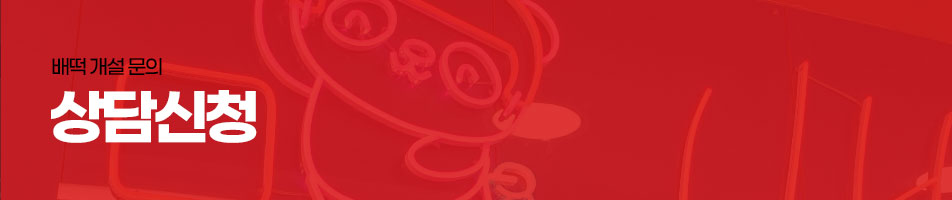
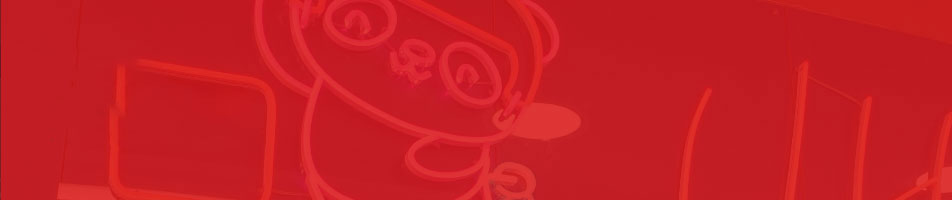
Add files via upload

Changed region(s): [[0.0305, 0.45, 0.2742, 0.72], [0.0305, 0.27, 0.1828, 0.39]]

diff --git a/index.html b/index.html
@@ -119,117 +119,113 @@
                     <ul class="tab_content">
                         <li class="on">
                             <!-- <h3 class="blind">떡볶이</h3> -->
-                            <div class="tab_slide1">
-                                <figure>
-                                    <img src="./images/menu_001.jpg" alt="">
-                                </figure>
-                                <figure>
-                                    <img src="./images/menu_002.jpg" alt="">
-                                </figure>
-                                <figure>
-                                    <img src="./images/menu_003.jpg" alt="">
-                                </figure>
-                                <figure>
-                                    <img src="./images/menu_004.jpg" alt="">
-                                </figure>
-                                <figure>
-                                    <img src="./images/menu_005.jpg" alt="">
-                                </figure>
-                                <figure>
-                                    <img src="./images/menu_006.jpg" alt="">
-                                </figure>
-                                <figure>
-                                    <img src="./images/menu_007.jpg" alt="">
-                                </figure>
-                                <figure>
-                                    <img src="./images/menu_008.jpg" alt="">
-                                </figure>
-                                <figure>
-                                    <img src="./images/menu_009.jpg" alt="">
-                                </figure>
+                            <div class="tab_slide">
+                                <div class="img_box">
+                                    <img src="./images/rice_menu_001.jpg" alt="">
+                                    <span>마라로제떡볶이</span>
+                                </div>
+                                <div class="img_box">
+                                    <img src="./images/rice_menu_002.jpg" alt="">
+                                    <span>마라떡볶이</span>
+                                </div>
+                                <div class="img_box">
+                                    <img src="./images/rice_menu_003.jpg" alt="">
+                                    <span>로제떡볶이</span>
+                                </div>
+                                <div class="img_box">
+                                    <img src="./images/rice_menu_004.jpg" alt="">
+                                    <span>분모자떡볶이</span>
+                                </div>
+                                <div class="img_box">
+                                    <img src="./images/rice_menu_005.jpg" alt="">
+                                    <span>소곱창떡볶이</span>
+                                </div>
+                                <div class="img_box">
+                                    <img src="./images/rice_menu_006.jpg" alt="">
+                                    <span>우삼겹떡볶이</span>
+                                </div>
+                                <div class="img_box">
+                                    <img src="./images/rice_menu_007.jpg" alt="">
+                                    <span>국물떡볶이</span>
+                                </div>
                             </div>
                         </li>
                         <li>
                             <!-- <h3 class="blind">세트메뉴</h3> -->
-                            <div class="tab_slide2">
+                            <div class="tab_slide">
                                 <figure>
-                                    <img src="./images/menu_003.jpg" alt="">
+                                    <img src="./images/set_menu_001.jpg" alt="">
+                                    <span>Lorem, ipsum.</span>
                                 </figure>
                                 <figure>
-                                    <img src="./images/menu_004.jpg" alt="">
+                                    <img src="./images/set_menu_002.jpg" alt="">
+                                    <span>Lorem, ipsum.</span>
                                 </figure>
                                 <figure>
-                                    <img src="./images/menu_005.jpg" alt="">
+                                    <img src="./images/set_menu_003.jpg" alt="">
+                                    <span>Lorem, ipsum.</span>
                                 </figure>
                                 <figure>
-                                    <img src="./images/menu_006.jpg" alt="">
+                                    <img src="./images/set_menu_004.jpg" alt="">
+                                    <span>Lorem, ipsum.</span>
                                 </figure>
                                 <figure>
-                                    <img src="./images/menu_007.jpg" alt="">
-                                </figure>
-                                <figure>
-                                    <img src="./images/menu_008.jpg" alt="">
-                                </figure>
-                                <figure>
-                                    <img src="./images/menu_009.jpg" alt="">
-                                </figure>
-                                <figure>
-                                    <img src="./images/menu_009.jpg" alt="">
+                                    <img src="./images/set_menu_005.jpg" alt="">
+                                    <span>Lorem, ipsum.</span>
                                 </figure>
                             </div>
                         </li>
                         <li>
                             <!-- <h3 class="blind">튀김류</h3> -->
-                            <div class="tab_slide3">
+                            <div class="tab_slide">
                                 <figure>
-                                    <img src="./images/menu_004.jpg" alt="">
+                                    <img src="./images/rice_menu_002.jpg" alt="">
+                                    <span>Lorem, ipsum.</span>
                                 </figure>
                                 <figure>
-                                    <img src="./images/menu_005.jpg" alt="">
+                                    <img src="./images/rice_menu_003.jpg" alt="">
+                                    <span>Lorem, ipsum.</span>
                                 </figure>
                                 <figure>
-                                    <img src="./images/menu_006.jpg" alt="">
+                                    <img src="./images/rice_menu_005.jpg" alt="">
+                                    <span>Lorem, ipsum.</span>
                                 </figure>
                                 <figure>
-                                    <img src="./images/menu_007.jpg" alt="">
+                                    <img src="./images/rice_menu_004.jpg" alt="">
+                                    <span>Lorem, ipsum.</span>
                                 </figure>
                                 <figure>
-                                    <img src="./images/menu_008.jpg" alt="">
-                                </figure>
-                                <figure>
-                                    <img src="./images/menu_009.jpg" alt="">
+                                    <img src="./images/rice_menu_001.jpg" alt="">
+                                    <span>Lorem, ipsum.</span>
                                 </figure>
                             </div>
                         </li>
                         <li>
                             <!-- <h3 class="blind">사이드</h3> -->
-                            <div class="tab_slide4">
+                            <div class="tab_slide">
                                 <figure>
-                                    <img src="./images/menu_007.jpg" alt="">
+                                    <img src="./images/rice_menu_002.jpg" alt="">
+                                    <span>Lorem, ipsum.</span>
                                 </figure>
                                 <figure>
-                                    <img src="./images/menu_008.jpg" alt="">
+                                    <img src="./images/rice_menu_002.jpg" alt="">
+                                    <span>Lorem, ipsum.</span>
                                 </figure>
                                 <figure>
-                                    <img src="./images/menu_003.jpg" alt="">
+                                    <img src="./images/rice_menu_005.jpg" alt="">
+                                    <span>Lorem, ipsum.</span>
                                 </figure>
                                 <figure>
-                                    <img src="./images/menu_004.jpg" alt="">
+                                    <img src="./images/rice_menu_003.jpg" alt="">
+                                    <span>Lorem, ipsum.</span>
                                 </figure>
                                 <figure>
-                                    <img src="./images/menu_005.jpg" alt="">
+                                    <img src="./images/rice_menu_006.jpg" alt="">
+                                    <span>Lorem, ipsum.</span>
                                 </figure>
                                 <figure>
-                                    <img src="./images/menu_006.jpg" alt="">
-                                </figure>
-                                <figure>
-                                    <img src="./images/menu_007.jpg" alt="">
-                                </figure>
-                                <figure>
-                                    <img src="./images/menu_008.jpg" alt="">
-                                </figure>
-                                <figure>
-                                    <img src="./images/menu_009.jpg" alt="">
+                                    <img src="./images/rice_menu_003.jpg" alt="">
+                                    <span>Lorem, ipsum.</span>
                                 </figure>
                             </div>
                         </li>
@@ -237,12 +233,29 @@
                 </div>
             </section>
             <div class="wide_banner">
-                <ul>
-                    <li>
-                        <a href=""></a>
-                    </li>
-                </ul>
+                <div class="wide_content">
+                    <div class="itm itm01">
+                        <div class="slogan">
+                            <span>가맹점 개설 절차</span>
+                            <p>개설안내</p>
+                        </div>
+                        <a href="/"><img src="./images/wide_banner_001.jpg" alt=""></a>
+                    </div>
+                    <div class="itm itm02">
+                        <div class="slogan">
+                            <span>가맹점 개설 문의</span>
+                            <p>상담신청</p>
+                        </div>
+                        <a href=""><img src="./images/wide_banner_002.jpg" alt=""></a>
+                    </div>
+                </div>
             </div>
+            <section class="mainNews default">
+                <div class="title">
+                    <h2>배떡 NEWS</h2>
+                    <p>배떡에서 안내드립니다</p>
+                </div>
+            </section>
         </main>
         <footer class="footer">
 

diff --git a/css/style.css b/css/style.css
@@ -245,18 +245,68 @@
     align-items: center;
 }
 
-.mainProduct .tab_content .tab_slide .img_box {
-    margin: 0 0 16px 0;
+/* .mainProduct .tab_content .img_box {
+    margin: 0 0 24px 0;
+} */
+
+.mainProduct .tab_content img {
+    width: 100%;
+    height: 200px;
+    object-fit: cover;
 }
 
 .mainProduct .tab_content li {
-    visibility: hidden;
     height: 0;
-    overflow: hidden;
-    /* background: #d91414; */
+    visibility: hidden;
+
+    display: none;
 }
 
 .mainProduct .tab_content li.on {
-    visibility: visible;
     height: auto;
+    visibility: visible;
+
+    display: block;
+}
+
+
+.wide_banner .wide_content {
+    display: flex;
+}
+
+.wide_banner .itm {
+    position: relative;
+}
+
+.wide_banner .itm span {
+    font-size: 16px;
+    color: #fff;
+    margin: 0 0 32px 0;
+    line-height: 24px;
+    text-shadow: 0px 1px 0px #000;
+}
+
+.wide_banner .itm p {
+    font-family: GmarketSans;
+    font-size: 32px;
+    color: #fff;
+    line-height: 40px;
+    text-shadow: 0px 1px 0px #000;
+}
+
+.wide_banner .itm01 .slogan {
+    position: absolute;
+    top: 50%;
+    right: 0;
+    transform: translate(0, -50%);
+    padding: 0 15px;
+    text-align: right;
+}
+
+.wide_banner .itm02 .slogan {
+    position: absolute;
+    top: 50%;
+    left: 0;
+    transform: translate(0, -50%);
+    padding: 0 15px;
 }

diff --git a/js/custom.js b/js/custom.js
@@ -7,30 +7,23 @@ $(function () {
         autoplaySpeed: 3000
     });
 
-    $('.tab_slide1').slick({
-        slidesToShow: 3,
-        arrows: false,
-    });
-    $('.tab_slide2').slick({
-        slidesToShow: 3,
-        arrows: false,
-    });
-    $('.tab_slide3').slick({
-        slidesToShow: 3,
-        arrows: false,
-    });
-    $('.tab_slide4').slick({
-        slidesToShow: 3,
-        arrows: false,
-    });
+
 
     $('.main_tab li a').on('click', function (e) {
         e.preventDefault();
         const idx = $(this).parent().index();
 
-        //$('.tab_content li').removeClass('on');
-        $('.tab_content li').eq(idx).addClass('on').siblings().removeClass('on');
+        $('.tab_content li').removeClass('on');
+        $('.tab_content li').eq(idx).addClass('on');
     });
+
+    $('.tab_slide').slick({
+        lazyLoad: 'ondemand',
+        slidesToShow: 4,
+        arrows: false,
+
+    });
+
 
 
 })

diff --git a/css/common.css b/css/common.css
@@ -9,6 +9,7 @@
 }
 
 .default .title {
+    text-align: center;
     max-width: 1200px;
     margin: 0 auto 32px auto;
     padding: 0 15px;
